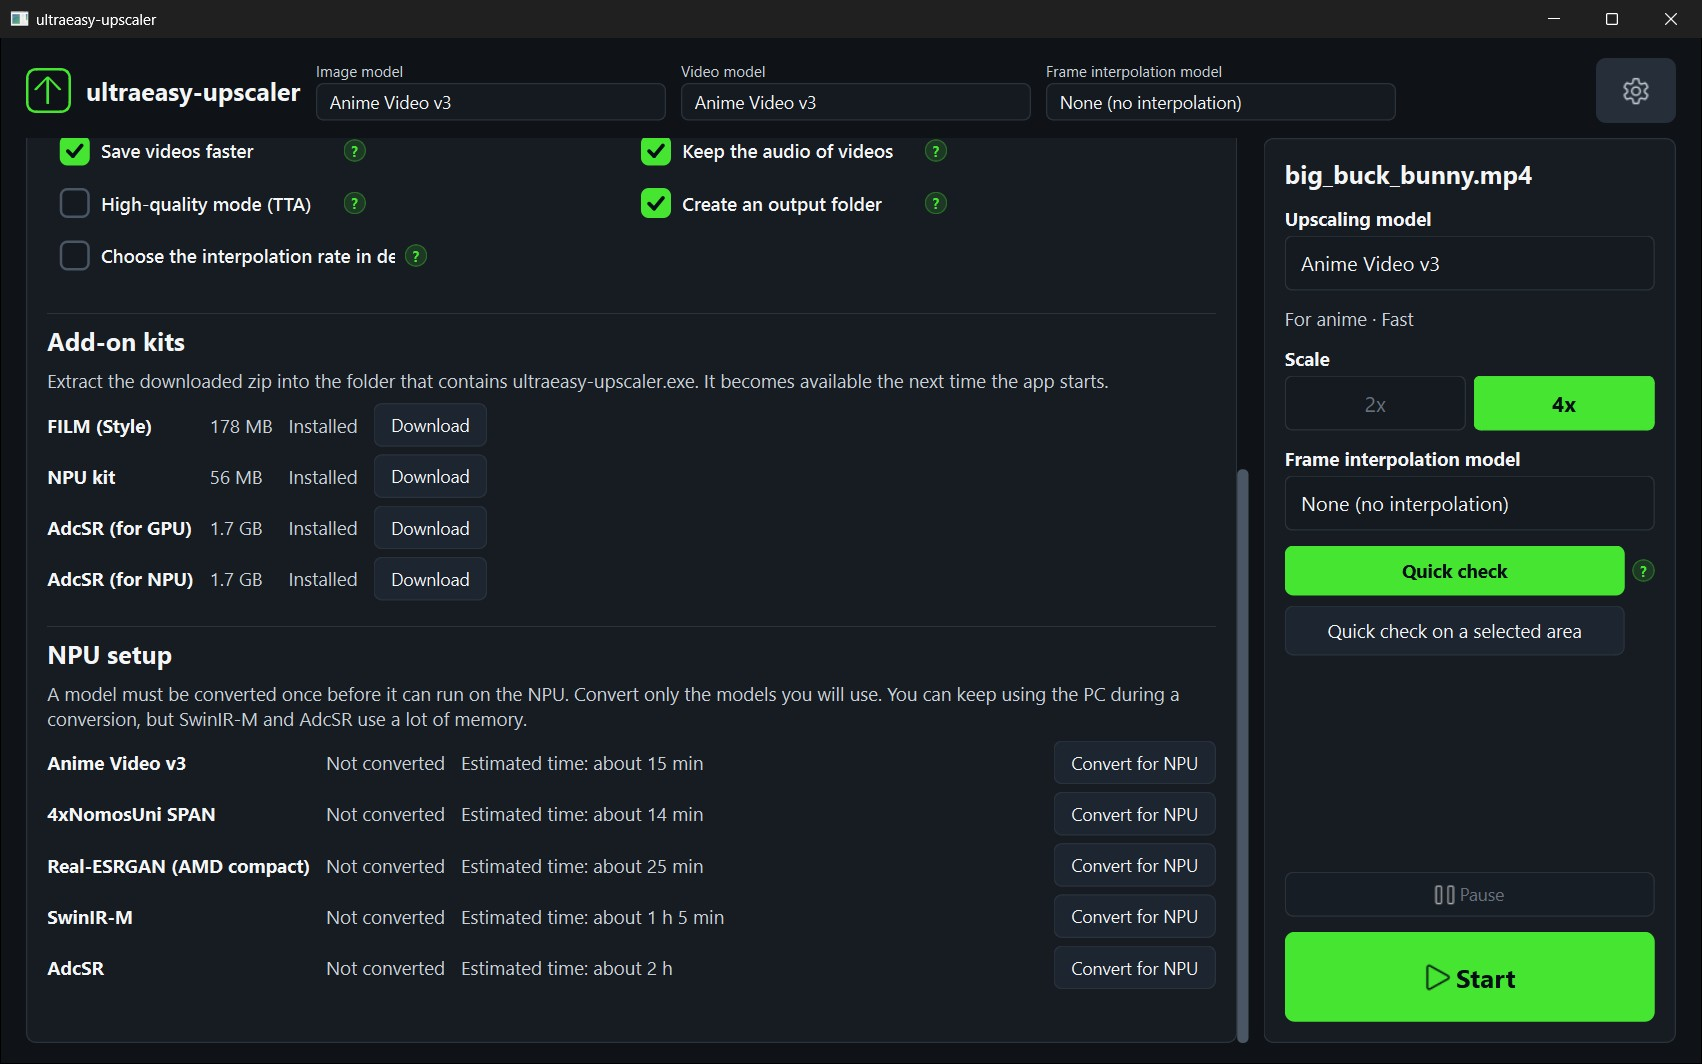
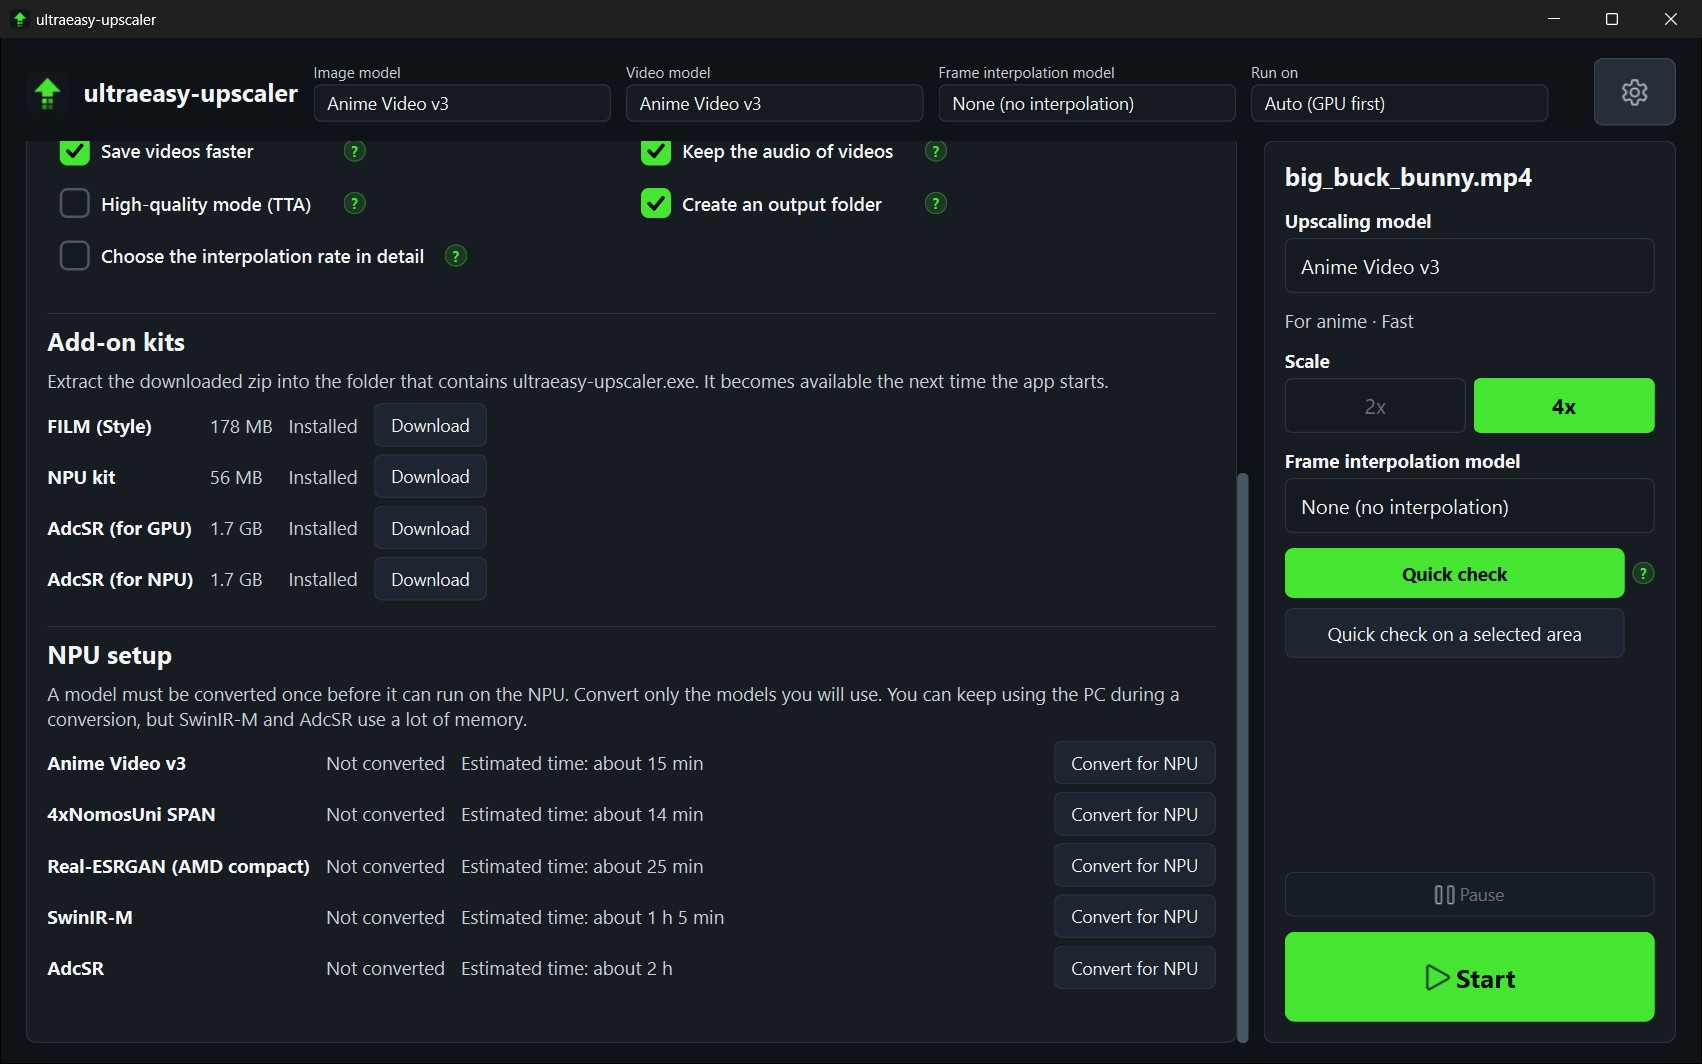
docs: 画面写真を撮り直す（ロゴ・ヘッダーの AI実行先・追加キット）
英語の詳細設定で、長い名前のチェックボックスが途中で切れていたのも直す。

diff --git a/app/gui/settings_drawer.py b/app/gui/settings_drawer.py
@@ -185,7 +185,9 @@ class ClearCheckBox(QCheckBox):
 
     def sizeHint(self) -> QSize:  # noqa: N802
         hint = super().sizeHint()
-        return QSize(max(hint.width(), 220), max(hint.height(), 34))
+        # 文字は自前で x=34 から描くので、幅も同じ前提で測る（長い英語の名前が切れないように）
+        text_width = 34 + self.fontMetrics().horizontalAdvance(self.text()) + 8
+        return QSize(max(hint.width(), text_width, 220), max(hint.height(), 34))
 
     def paintEvent(self, event: QPaintEvent) -> None:  # noqa: N802
         del event
